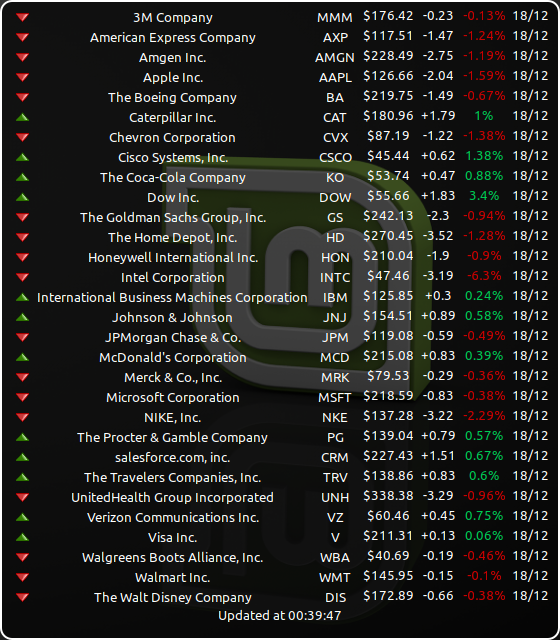
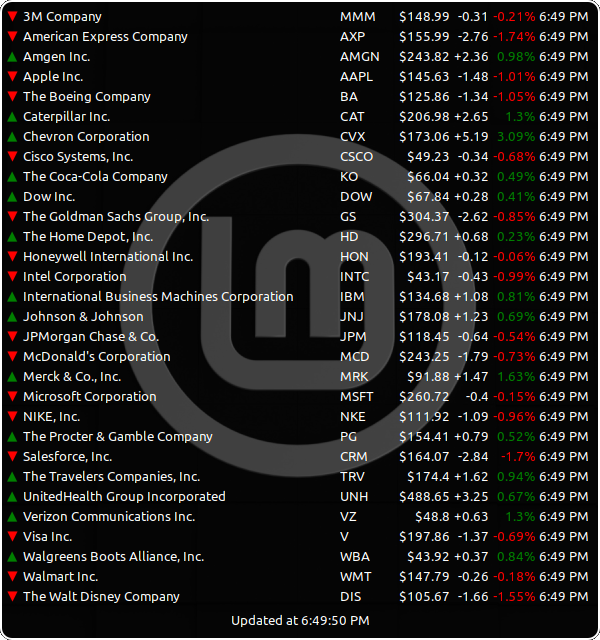
bug fixes
- change data download to async mode
- fix coloring of percentage change value
- increase default desklet width
- refresh desklet screenshot

diff --git a/yfquotes@thegli/files/yfquotes@thegli/desklet.js b/yfquotes@thegli/files/yfquotes@thegli/desklet.js
@@ -16,6 +16,7 @@ const Gio = imports.gi.Gio;
 const GLib = imports.gi.GLib;
 // Gtk library (policies for scrollview)
 const Gtk = imports.gi.Gtk;
+const Soup = imports.gi.Soup;
 // for periodic data reload
 const Mainloop = imports.mainloop;
 // Binding desklet to mainloop function
@@ -31,6 +32,9 @@ const ABSENT = "N/A";
 const YF_PAGE = "https://finance.yahoo.com/quote/";
 
 Gettext.bindtextdomain(UUID, GLib.get_home_dir() + "/.local/share/locale");
+
+const _httpSession = new Soup.SessionAsync();
+Soup.Session.prototype.add_feature.call(_httpSession, new Soup.ProxyResolverDefault());
 
 function _(str) {
     return Gettext.dgettext(UUID, str);
@@ -55,54 +59,42 @@ YahooFinanceQuoteUtils.prototype = {
     }
 }
 
-var YahooFinanceQuoteReader = function () {
+let YahooFinanceQuoteReader = function () {
 };
 
 YahooFinanceQuoteReader.prototype = {
     constructor : YahooFinanceQuoteReader,
     yahooQueryBaseUrl : "https://query1.finance.yahoo.com/v7/finance/quote?symbols=",
-
-    getQuotes : function (quoteSymbols) {
-        const response = this.getYahooQueryResponse(this.createYahooQueryUrl(quoteSymbols));
-        return this.fetchQuotes(response);
-    },
-
-    createYahooQueryUrl : function (quoteSymbols) {
-        return this.yahooQueryBaseUrl + quoteSymbols.join(",");
-    },
-
-    getYahooQueryResponse : function (requestUrl) {
+    
+    getAsyncResponse : function(quoteSymbols, callback) {
+        const requestUrl = this.createYahooQueryUrl(quoteSymbols);
         const errorBegin="{\"quoteResponse\":{\"result\":[],\"error\":\"";
         const errorEnd = "\"}}";
-        const urlcatch = Gio.file_new_for_uri(requestUrl);
-        let response;
-
-        const maxRetries = 5;
-        let retries = 0;
-        do {
-            try {
-                let [successful, contents, etag_out] = urlcatch.load_contents(null);
-                if (successful) {
-                    response = contents.toString();
-                    retries = maxRetries;
-                } else {
-                    response = errorBegin + _("Yahoo Finance service not available!") + errorEnd;
+        
+        let here = this;
+        let message = Soup.Message.new('GET', requestUrl);
+        _httpSession.timeout = 10;
+        _httpSession.idle_timeout = 10;
+        _httpSession.queue_message(message, function (session, message) {
+            if( message.status_code == 200) {
+                try {
+                    callback.call(here, message.response_body.data.toString());
+                } catch(e) {
+                    global.logError(e)
                 }
-            } catch (err) {
-                response = errorBegin + err + errorEnd;
+            } else {
+                global.logWarning("Error retrieving url " + requestUrl + ". Status: " + message.status_code + ": " + message.reason_phrase);
+                callback.call(here, errorBegin + _("Yahoo Finance service not available!") + errorEnd);
             }
-            retries++;
-        } while (retries < maxRetries);
-
-        return JSON.parse(response);
+        });
     },
-
-    fetchQuotes : function (response) {
-        return [response.quoteResponse.result, response.quoteResponse.error];
+    
+    createYahooQueryUrl : function (quoteSymbols) {
+        return this.yahooQueryBaseUrl + quoteSymbols.join(",");
     }
 };
 
-var QuotesTable = function () {
+let QuotesTable = function () {
     this.el = new St.Table({
         homogeneous : false
     });
@@ -205,7 +197,7 @@ QuotesTable.prototype = {
     },
 
     createAbsoluteChangeLabel : function (quote, withCurrencySymbol, decimalPlaces, strictRounding) {
-        var absoluteChangeText = "";
+        let absoluteChangeText = "";
         if (this.quoteUtils.existsProperty(quote, "regularMarketChange")) {
             let absoluteChange = this.roundAmount(quote.regularMarketChange, decimalPlaces, strictRounding);
             if (absoluteChange > 0.0) {
@@ -244,13 +236,15 @@ QuotesTable.prototype = {
     },
 
     createPercentChangeLabel : function (quote, useTrendColors, uptrendChangeColor, downtrendChangeColor, unchangedTrendColor, strictRounding) {
-        let labelColor = unchangedTrendColor;
+        let labelColor = "";
         if (useTrendColors && this.quoteUtils.existsProperty(quote, "regularMarketChangePercent")) {
             const percentageChange = parseFloat(quote.regularMarketChangePercent);
             if (percentageChange > 0) {
                 labelColor = uptrendChangeColor;
             } else if (percentageChange < 0) {
                 labelColor = downtrendChangeColor;
+            } else {
+                labelColor = unchangedTrendColor;
             }
         }
 
@@ -259,7 +253,7 @@ QuotesTable.prototype = {
                 ? (this.roundAmount(quote.regularMarketChangePercent, 2, strictRounding) + "%")
                 : ABSENT,
             style_class : "quotes-number",
-            style : "color: " + labelColor + ";"
+            style : labelColor ? "color: " + labelColor + ";" : ""
         });
     },
 
@@ -450,13 +444,16 @@ StockQuoteDesklet.prototype = {
         this.unrender();
         this.removeUpdateTimer();
     },
-
+    
     onUpdate : function () {
         const quoteSymbols = this.quoteSymbolsText.split("\n");
         try {
-            let quotes = this.quoteReader.getQuotes(quoteSymbols);
-            this.render(quotes);
-            this.setUpdateTimer();
+            const _that = this;
+            this.quoteReader.getAsyncResponse(quoteSymbols, function(response) {
+                let parsedResponse = JSON.parse(response);
+                _that.render([parsedResponse.quoteResponse.result, parsedResponse.quoteResponse.error]);
+                _that.setUpdateTimer();
+            });
         } catch (err) {
             this.onError(quoteSymbols, err);
         }

diff --git a/yfquotes@thegli/README.md b/yfquotes@thegli/README.md
@@ -1,6 +1,7 @@
 # Cinnamon Desklet for Yahoo Finance quotes
 
 ## Description
+
 This repository contains a [desklet for the Cinnamon desktop environment](https://cinnamon-spices.linuxmint.com/desklets) that displays financial market information provided by [Yahoo Finance](https://finance.yahoo.com/).
 
 ![Screenshot](screenshot.png)
@@ -8,86 +9,129 @@ This repository contains a [desklet for the Cinnamon desktop environment](https:
 This desklet is based on the [desklet from fthuin](https://github.com/fthuin/yahoofinance-cinnamon-desklet). The data retrieval part is adopted to an alternative service url, after the Yahoo Finance community table got retired in May 2017.
 
 Tested with
-- Linux Mint Cinnamon 17 up to 20
+
+- Linux Mint Cinnamon 17 up to 21
 - Debian 9 with Cinnamon 3.2
 - Manjaro with Cinnamon 3.8
 
 ## Installation
+
 Either follow the installation instructions on [Cinnamon spices](https://cinnamon-spices.linuxmint.com/desklets), or manually download the folder **yfquotes@thegli** (below "files") and copy the folder and its content to `~/.local/share/cinnamon/desklets/`
 
 ## Configuration
+
 Check out the desklet configuration settings, and choose the data refresh period, the list of quotes to show (see also [Known Limitations](#known-limitations)), and quote details to display. The default list contains the Dow 30 companies.
 
 ## Release Notes
 
-### 0.8.0 - January 12, 2022
+### 0.8.1 - May 16, 2022
+
 Features:
+
+- update Brasilian and German translations
+- fetch finance data asynchronously to improve responsiveness
+
+Bugfixes:
+
+- do not color percentage change value when corresponding setting is not selected
+- increase default desklet width
+- update screenshot image
+- fix syntax errors in README.md
+
+### 0.8.0 - January 12, 2022
+
+Features:
+
 - add Russian translation
 
 ### 0.7.0 - January 10, 2022
+
 Features:
+
 - add symbolic trend change icons instead of .svg
 - add configurable trend change colors instead of hardcoded colors
 - add configurable strict rounding
 - add UAH and RUB currency symbols
-- changed table items view (text align to the left, numbers/dates align to the right)
+- change table items view (text align to the left, numbers/dates align to the right)
 
 ### 0.6.0 - June 18, 2021
+
 Features:
+
 - change layout of settings dialog to tabbed views
 - new setting to use alternative colors (use blue instead of green)
 - add Hungarian translation (courtesy of [KAMI911](https://github.com/KAMI911))
 
 ### 0.5.2 - February 7, 2021
+
 Features:
+
 - add Italian translation (courtesy of [Dragone2](https://github.com/Dragone2))
 - add Korean translation (courtesy of [chaeya](https://github.com/chaeya))
 - optimize png files (courtesy of [NikoKrause](https://github.com/NikoKrause))
- 
+
 Bugfixes:
+
 - correct a msgid in translation files
 
 ### 0.5.1 - December 20, 2020
+
 Features:
+
 - incorporate Danish translation (courtesy of [Alan01](https://github.com/Alan01))
 
 Bugfixes:
+
 - update DOW 30 component symbols
 - resolve various issues reported by Codacy
 
 ### 0.5.0 - October 4, 2020
+
 Features:
+
 - new setting to color percentage change according to trend. Enabled by default if percentage change is displayed. Courtesy of [plaihonen](https://github.com/plaihonen).
 - new setting to add Yahoo Finance hyperlink to symbol/quote. Enabled by default if symbol is displayed. Proposed by [ngaro](https://github.com/ngaro).
 - new setting to use long version for verbose quote name. Enabled by default if verbose name is displayed. Courtesy of [ngaro](https://github.com/ngaro).
 
 ### 0.4.2 - September 20, 2020
+
 Bugfixes:
+
 - update translation files with new setting
 - extend desklet description for better searchability
 
 ### 0.4.1 - August 18, 2020
+
 Features:
+
 - add setting to disable quote name hyperlink
 
 Bugfixes:
+
 - remove invalid quote symbol from default list
 
-### 0.4.0 - July 17, 2020 
+### 0.4.0 - July 17, 2020
+
 Features:
+
 - allow multiple desklet instances
 - add German translation
 
 ### 0.3.0 - June 29, 2020
+
 Features:
+
 - add setting to sort quotes list
 - update DOW 30 component symbols
 
 Bugfixes:
+
 - auto-retry in case of connection problem (e.g. TLS handshake)
 
 ### 0.2.0 - May 23, 2018
+
 Features:
+
 - show absolute price change amount
 - show last trade time/date
 - show timestamp of latest data refresh
@@ -97,21 +141,28 @@ Features:
 - display severe errors such as network failure
 
 Bugfixes:
+
 - improve error handling
 
 ### 0.1.0 - May 6, 2018
+
 Features:
+
 - minor description adjustments in configuration settings
 
 Bugfixes:
+
 - fix "value "nan" of type 'gfloat' is invalid or out of range for property" errors logged in *.xsession-errors*
 - works (again) with Cinnamon 3.2
 
 ### 0.0.1 - May 4, 2018
+
 Features:
+
 - setting to show/hide the currency symbol
 
 Bugfixes:
+
 - change data retrieval to alternative url from Yahoo Finance
 
 ## Known Limitations
@@ -119,7 +170,9 @@ Bugfixes:
 - The quotes list might not be editable using the desklet's configuration dialog (encountered in Cinnamon 3.6 and earlier 3.x versions). As a workaround, export the configuration using the standard desklet settings menu to a (json) file, then edit the file with your favorite text editor, and finally import the configuration file again.
 
 ## Credits
+
 Based on the desklet source code from [fthuin](https://github.com/fthuin/yahoofinance-cinnamon-desklet).
 
 ## License
+
 GNU General Public License v3.0
